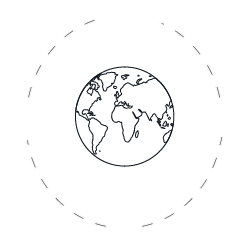
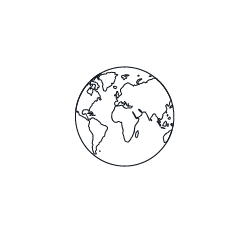
Updates images animation

diff --git a/src/client/app/home/home.controller.js b/src/client/app/home/home.controller.js
@@ -11,8 +11,10 @@
     // jshint validthis: true 
     var home = this;
     var shell = $scope.shell;
+    var index = 1;
 
     home.active = false;
+    home.sections = [false,false,false,false,false,false,false];
 
     var menu = $('#menu').innerHeight();
     // alert($('.image-space').height());
@@ -38,8 +40,7 @@
         $('#float-section').css({top:-(distance)});
         $('#menu').css({'position':'absolute',top:-(menu)});
         $('#float-section').innerHeight($('#float-section').innerHeight()-distance);
-        // var menuTop = $('#menu').offset().top;
-        var menuTop =0;
+        var menuTop = $('#menu').offset().top;
 
         if(menuTop-scroll <= 0){
           $('#menu').css({position:'fixed',top:0});
@@ -59,8 +60,12 @@
 
       /* section animation */
       // console.log($('.section-1').position().top);
-      if( scroll+(distance-viewport) >= $('.section-3').position().top ){
-        console.log('triggered');
+      if(index <= home.sections.length){
+        var sectionDistance = scroll+(distance-viewport)+menu;
+        if( sectionDistance+200 >= $('.section-'+index).position().top ){
+          $('.image-'+index).addClass('active')
+          index++;
+        }
       }
     
     });

diff --git a/src/client/common/styles/home.sass b/src/client/common/styles/home.sass
@@ -10,7 +10,6 @@ $menuNav : 77px;
   z-index: 1
   padding-bottom: $menuHeight
 .background-container
-  background-color: red
   position: relative
   z-index: 3
 
@@ -186,7 +185,21 @@ md-input-container
   i
     margin-right: 10px
 .section-image
+  position: relative
   text-align: center
+  opacity: 0
+  transition: right 0.5s ease-in-out,left 0.5s ease-in-out, opacity 0.5s ease-in-out
+  &.image-left
+    left: -50%
+    &.active
+      left: 0
+      opacity: 1
+  &.image-right
+    right: -50%
+    &.active
+      right: 0
+      opacity: 1
+
 
 .section-container
   width: 100%
@@ -196,4 +209,4 @@ md-input-container
     color: rgba(0,0,0,0.7)
   &.right
     background-color: $primary-color
-    color: rgba(255,255,255,0.7)
+    color: rgba(255,255,255,0.9)
